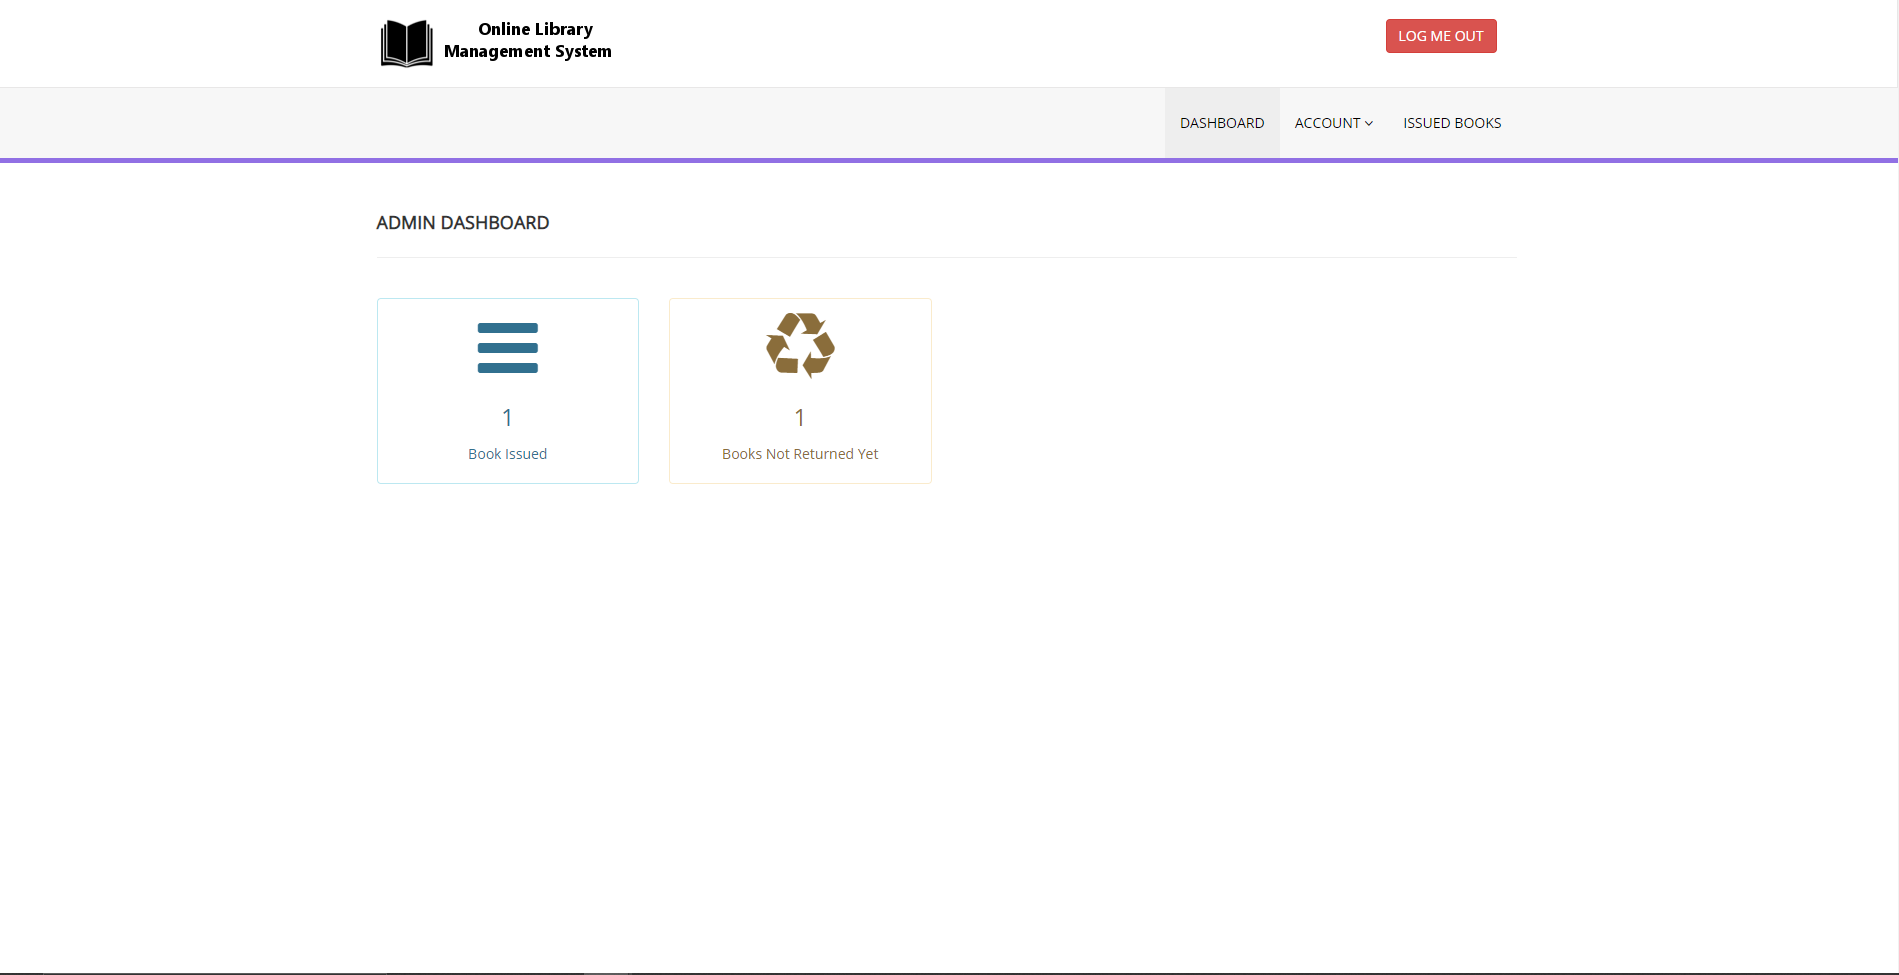
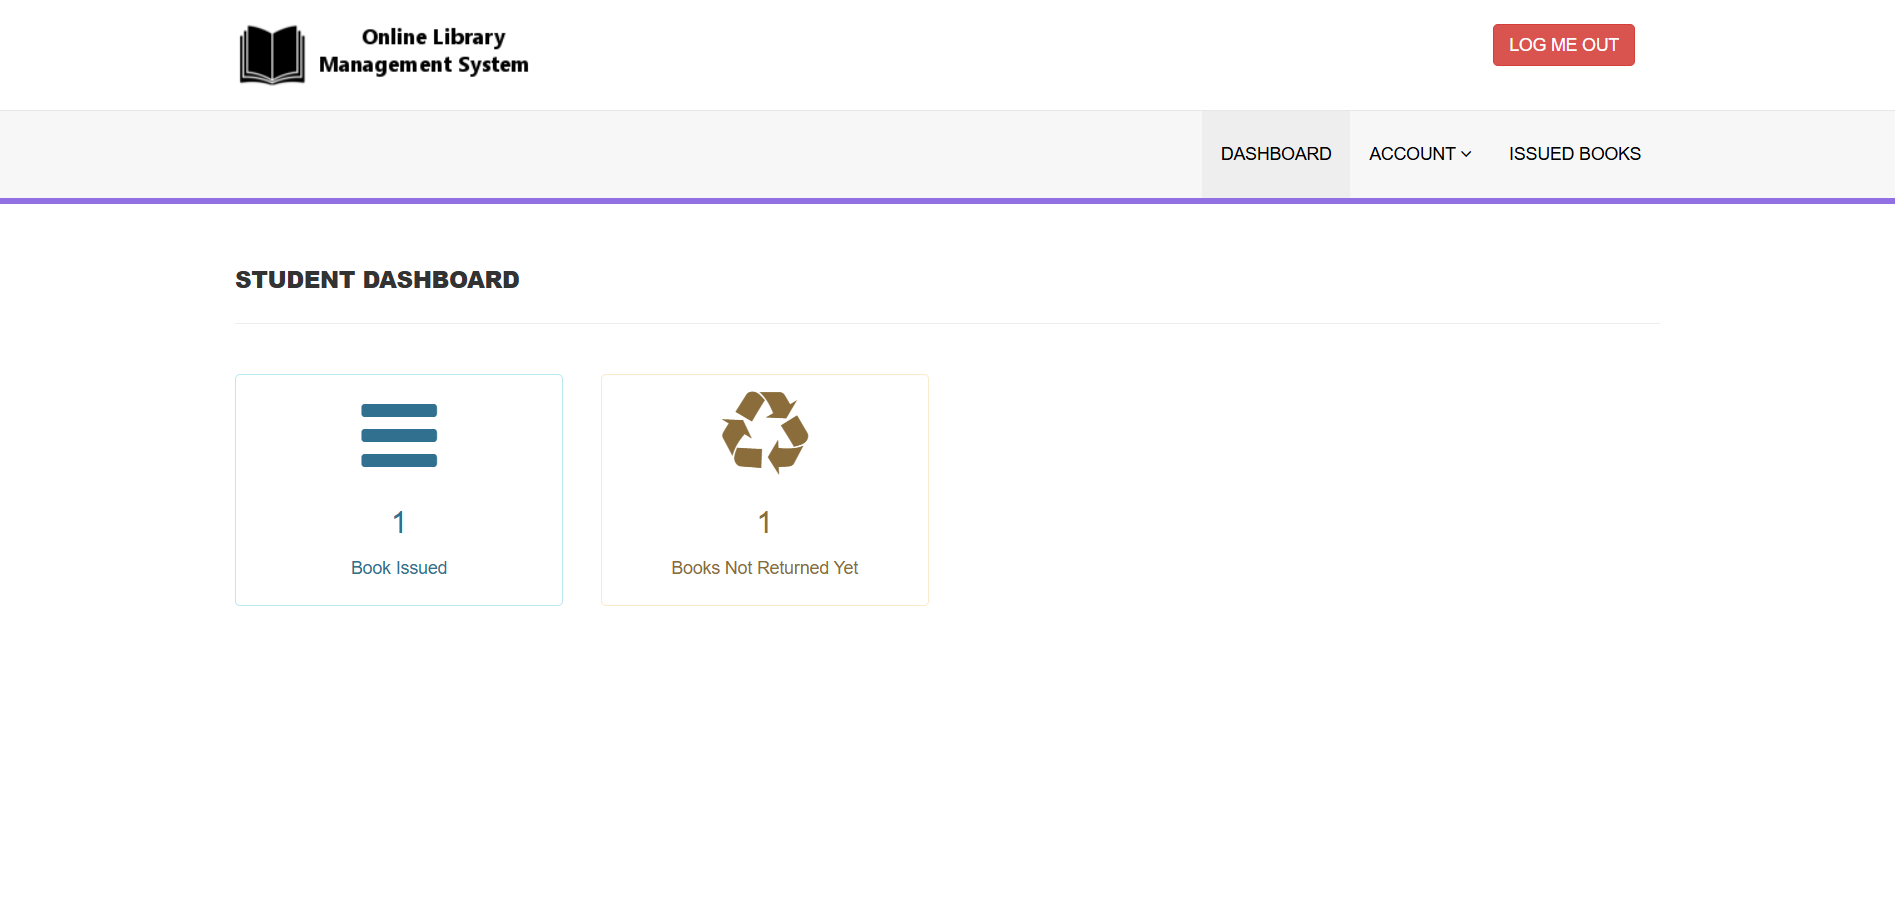
update Image, dashboard.php

diff --git a/dashboard.php b/dashboard.php
@@ -33,7 +33,7 @@ else{?>
          <div class="container">
         <div class="row pad-botm">
             <div class="col-md-12">
-                <h4 class="header-line">ADMIN DASHBOARD</h4>
+                <h4 class="header-line">STUDENT DASHBOARD</h4>
                 
                             </div>
 
